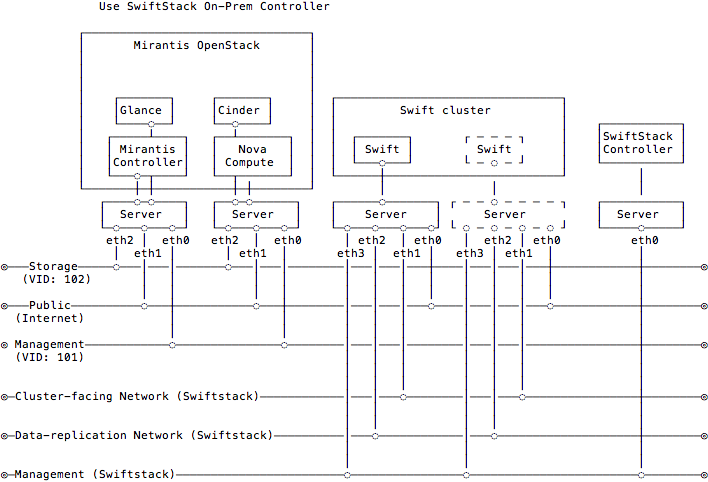
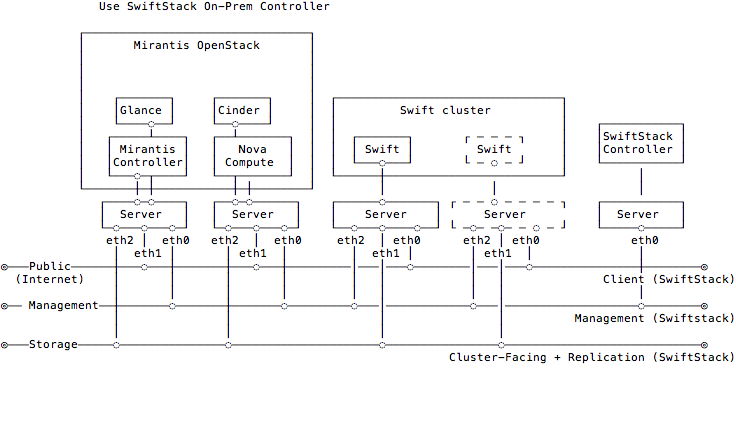
Correct documentation for Fuel setup recommendations
referenced Fuel install guide for recommendations
updated documentation for SwiftStack-Fuel network mapping
updated recommended network diagrams

Closes-Bug: 1590449

diff --git a/doc/user.rst b/doc/user.rst
@@ -85,9 +85,10 @@ Network summary
 Please make sure the network configuration like:
 
     1. Fuel controller nodes (Keystone, Glance) can talk to Swift Proxy-server (i.e., 
-       Proxy-only, PAC, PACO node) for :ref:`Outward-facing IP<proxy_outward_facing_ip>`.
+       Proxy-only, PAC, PACO node) over Fuel Management network
     2. Clients can talk to :ref:`Swift API IP Address<swift_api_ip>` (Swift Proxy or 
        External/Internal Load Balancer)
+    3. SwiftStack nodes can optionally talk to each over Fuel Storage network
     3. SwiftStack nodes can talk to SwiftStack Controller via Management (SwiftStack) 
        network (for On-Premises) or Public network (for public Swiftstack Controller)
 
@@ -96,7 +97,10 @@ Please make sure the network configuration like:
         We only use one PACO (Proxy/Account/Comtainer/Object) nodes to deploy a all-in-one 
         Swift cluster in this document and is a minimum deployment. 
         In real environment, as the cluster scales, it might be necessary to specalize nodes
-        into separate Proxy/Account/Container/Object tiers.  
+        into separate Proxy/Account/Container/Object tiers.
+        If the Fuel Storage network does not have adequate bandwidth to support Replication &
+        Cluster-Facing traffic, these interfaces can be on a network external to Fuel
+
 
 User token validation
 ---------------------
@@ -129,10 +133,7 @@ cluster with SwiftStack controller, here is our `quick start guide`_.
     * 1 SwiftStack On-Premises controller
     * 1 Swift cluster (single node)
 
-Also prepare two Fuel slave nodes:
-
-    * 1 Controller Node
-    * 1 Compute Node (have **Compute** and **Storage - Cinder** roles)
+Also prepare a Fuel environment using Slave nodes according to the `Fuel Install Guide`_.
 
 
     .. note::
@@ -157,10 +158,7 @@ Please setup a single node Swift cluster with our public controller, here is our
 
     * 1 Swift cluster (single node)
 
-Also prepare two Fuel slave nodes:
-
-    * 1 Controller Node
-    * 1 Compute Node (have **Compute** and **Storage - Cinder** roles)
+Also prepare a Fuel environment using Slave nodes according to the `Fuel Install Guide`_.
 
 
     .. note::
@@ -178,22 +176,24 @@ Also prepare two Fuel slave nodes:
 
 
 .. _quick start guide: https://swiftstack.com/docs/install/index.html
+.. _Fuel Install Guide: http://docs.openstack.org/developer/fuel-docs/userdocs/fuel-install-guide.html
 
 
 Deploying Mirantis OpenStack with a SwiftStack Swift cluster
 ------------------------------------------------------------
 
-#. Create a new environment with two nodes:
+#. Create a new environment with available Slave nodes:
 
     * Select **Liberty on Ubuntu Trusty (14.04)** as the distribution
     * Select **Neutron with VLAN segmentation** as the networking setup
     * Use all default settings
-    * 1 Controller Node (has **Controller**)
-    * 1 Compute Node (has **Compute** and **Storage - Cinder** role)
+    * Select node roles according to the `Fuel Install Guide`_.
 
     .. image:: images/1_add_nodes.png
 
     .. _swift_api_ip_address:
+
+.. _Fuel Install Guide: http://docs.openstack.org/developer/fuel-docs/userdocs/fuel-install-guide.html
 
 
 #. Go to the Settings tab of the Fuel Web UI,
